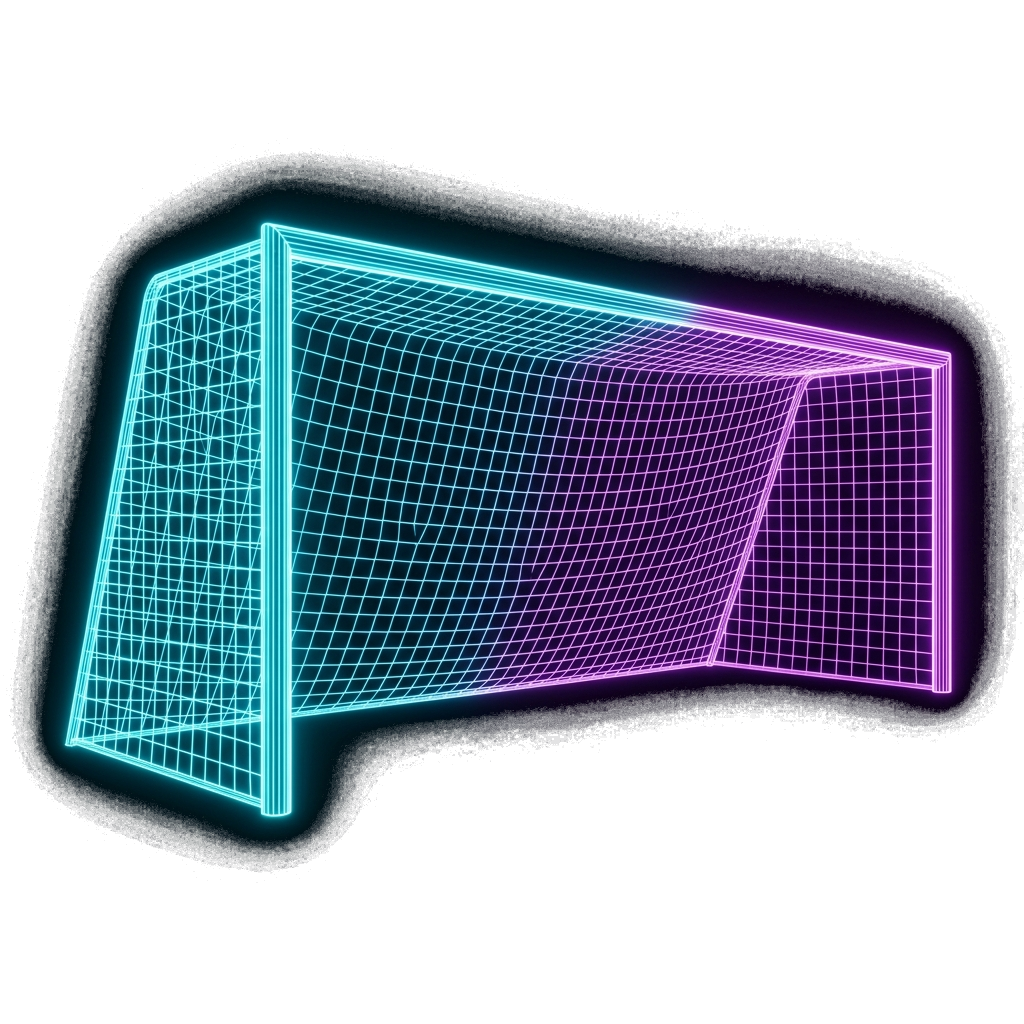
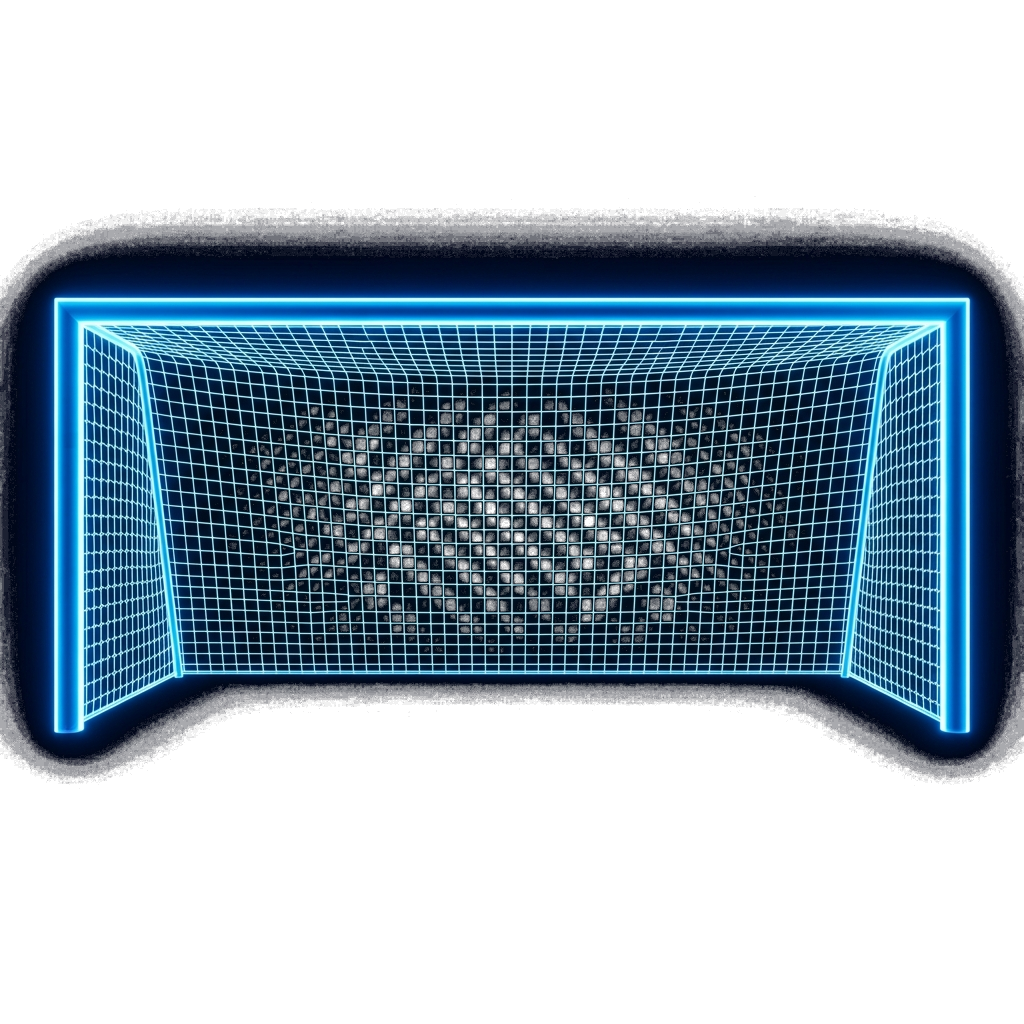
feat: Replace slanted 3D goal with front-facing neon-blue goal, lock goal/trophy static snaps, and add fullscreen trophy zoom celebration

diff --git a/src/components/PhysicsPlayground.tsx b/src/components/PhysicsPlayground.tsx
@@ -305,7 +305,7 @@ export const PhysicsPlayground: React.FC = () => {
 
         // Determine if this specific item should snap to its grid position
         const itemShouldSnap = wmModeRef.current
-          ? (item.id !== "badge-wm-ball" && item.id !== "badge-wm-trophy" && item.id !== "portrait-card") || isSnapping
+          ? (item.id !== "badge-wm-ball") || isSnapping
           : isSnapping;
 
         if (item.id === activeDragId) {
@@ -829,6 +829,16 @@ export const PhysicsPlayground: React.FC = () => {
           0% { transform: scale(0.9) translate(-50%, -50%); opacity: 0; }
           100% { transform: scale(1) translate(-50%, -50%); opacity: 1; }
         }
+        @keyframes overlayFadeIn {
+          0% { opacity: 0; backdrop-filter: blur(0px); }
+          100% { opacity: 1; backdrop-filter: blur(12px); }
+        }
+        @keyframes trophyZoom {
+          0% { transform: scale(0.2) rotate(-20deg); }
+          60% { transform: scale(1.15) rotate(5deg); }
+          80% { transform: scale(0.97) rotate(0deg); }
+          100% { transform: scale(1.0) translateY(-6px); }
+        }
       `}</style>
 
       {/* Confetti Overlay */}
@@ -850,14 +860,32 @@ export const PhysicsPlayground: React.FC = () => {
         />
       ))}
 
-      {/* Goal Feedback Overlay */}
+      {/* Goal Fullscreen Celebration Overlay */}
       {shootState === "goal" && (
-        <div className="absolute top-1/2 left-1/2 -translate-x-1/2 -translate-y-1/2 z-50 pointer-events-none select-none text-center animate-[scaleUp_0.2s_ease-out_forwards]">
-          <h2 className="text-6xl md:text-8xl font-black text-transparent bg-clip-text bg-gradient-to-r from-[#00F0FF] via-pink-500 to-indigo-400 tracking-wider uppercase filter drop-shadow-[0_0_30px_rgba(0,240,255,0.4)]">
-            {locale === "fa" ? "گل! ⚽🏆" : locale === "de" ? "TOR! ⚽🏆" : "GOAL! ⚽🏆"}
+        <div className="absolute inset-0 bg-slate-950/85 backdrop-blur-md z-50 flex flex-col items-center justify-center pointer-events-none select-none text-center animate-[overlayFadeIn_0.4s_ease-out_forwards]">
+          {/* Glowing background aura */}
+          <div className="absolute w-[300px] h-[300px] md:w-[500px] md:h-[500px] rounded-full bg-gradient-to-r from-amber-500/25 to-yellow-500/20 blur-[80px] pointer-events-none -z-10 animate-pulse" />
+
+          {/* Giant Trophy */}
+          <div className="relative w-[180px] h-[220px] md:w-[280px] md:h-[350px] mb-8 animate-[trophyZoom_1.4s_cubic-bezier(0.34,1.56,0.64,1)_forwards]">
+            {/* eslint-disable-next-line @next/next/no-img-element */}
+            <img 
+              src="/wm_trophy.png" 
+              alt="WM Trophy"
+              className="w-full h-full object-contain filter drop-shadow-[0_0_40px_rgba(251,191,36,0.6)]"
+            />
+          </div>
+
+          {/* Text */}
+          <h2 className="text-4xl md:text-7xl font-black text-transparent bg-clip-text bg-gradient-to-r from-amber-400 via-yellow-200 to-amber-500 tracking-wider uppercase filter drop-shadow-[0_0_20px_rgba(251,191,36,0.3)] mb-4 px-4 leading-none">
+            {locale === "fa" ? "قهرمان جهان! 🏆⚽" : locale === "de" ? "WELTMEISTERLICHER SCHUSS! 🏆⚽" : "WORLD CHAMPION SHOT! 🏆⚽"}
           </h2>
-          <p className="text-slate-300 text-xs md:text-sm font-mono uppercase tracking-widest mt-2 bg-slate-950/80 px-4 py-1.5 rounded-full border border-[#00F0FF]/20 backdrop-blur-sm inline-block">
-            {locale === "fa" ? "شلیک عالی!" : locale === "de" ? "Was für ein Schuss!" : "What a shot!"}
+          <p className="text-slate-300 text-xs md:text-sm font-mono uppercase tracking-widest bg-amber-500/10 border border-amber-500/20 px-6 py-2 rounded-full backdrop-blur-sm shadow-[0_0_15px_rgba(245,158,11,0.15)] mx-4">
+            {locale === "fa" 
+              ? "جام جهانی ۲۰۲۶ در دستان شماست!" 
+              : locale === "de" 
+                ? "Du hast den goldenen Pokal erobert!" 
+                : "You have captured the golden World Cup!"}
           </p>
         </div>
       )}
@@ -976,21 +1004,13 @@ export const PhysicsPlayground: React.FC = () => {
                   alt="WM Goal"
                   className={`w-full h-full object-contain transition-all duration-300 ${
                     shootState === "goal"
-                      ? "filter drop-shadow-[0_0_35px_rgba(52,211,153,0.6)] scale-[1.02]"
-                      : "filter drop-shadow-[0_0_20px_rgba(0,240,255,0.2)]"
+                      ? "filter drop-shadow-[0_0_35px_rgba(0,240,255,0.55)] scale-[1.01]"
+                      : "filter drop-shadow-[0_0_20px_rgba(0,240,255,0.25)]"
                   }`}
                 />
                 {/* Goal post overlay indicator lights */}
-                <div className={`absolute top-[8%] left-[7%] w-1.5 h-1.5 rounded-full transition-all duration-300 ${
-                  shootState === "goal" 
-                    ? "bg-[#34D399] shadow-[0_0_12px_#34D399]" 
-                    : "bg-[#00F0FF] animate-pulse shadow-[0_0_8px_#00F0FF]"
-                }`} />
-                <div className={`absolute top-[8%] right-[7%] w-1.5 h-1.5 rounded-full transition-all duration-300 ${
-                  shootState === "goal" 
-                    ? "bg-[#34D399] shadow-[0_0_12px_#34D399]" 
-                    : "bg-indigo-400 animate-pulse shadow-[0_0_8px_#818CF8]"
-                }`} />
+                <div className="absolute top-[8%] left-[7%] w-1.5 h-1.5 rounded-full bg-[#00F0FF] animate-pulse shadow-[0_0_8px_#00F0FF]" />
+                <div className="absolute top-[8%] right-[7%] w-1.5 h-1.5 rounded-full bg-[#00F0FF] animate-pulse shadow-[0_0_8px_#00F0FF]" />
               </div>
             ) : (
               /* Card Content Shell (Portrait Card) */